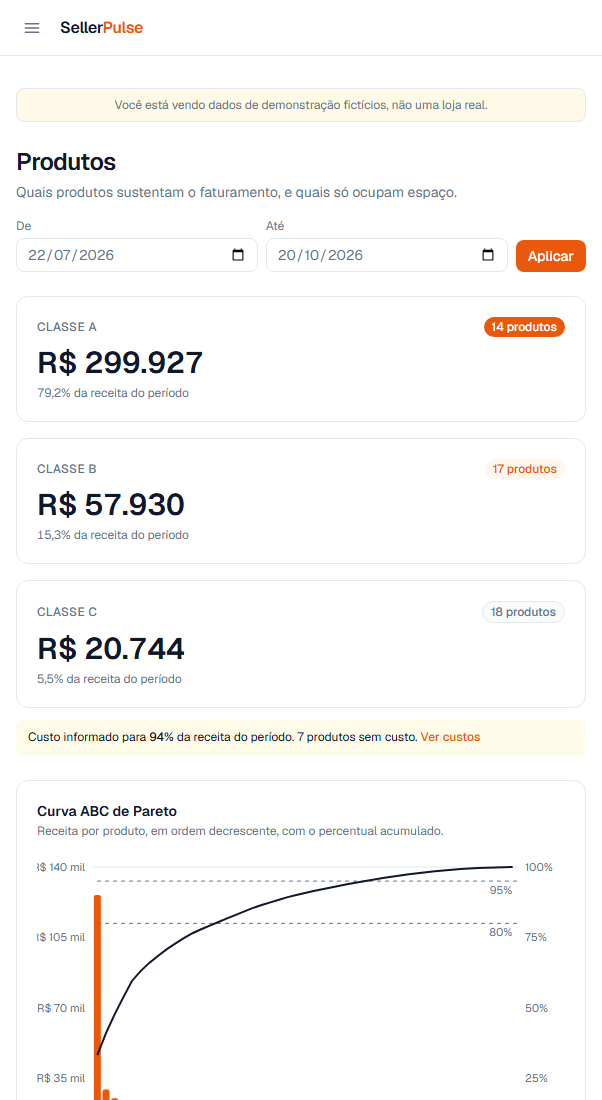
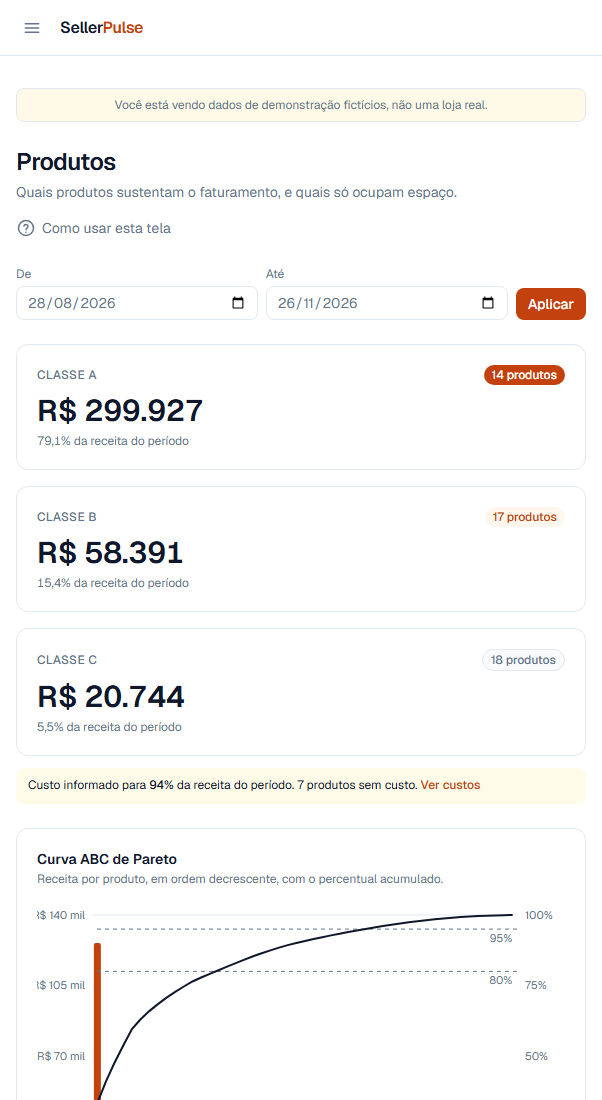
feat(vitrine): Resumo entre as telas e fotos novas da demonstração
As fotos eram de 20/10 e não mostravam o Resumo, que hoje é a primeira
tela de quem entra. O script de captura passa a responder "já vi" aos
tutoriais, que abriam sozinhos no perfil limpo e saíam por cima da tela.

diff --git a/frontend/components/landing/showcase.tsx b/frontend/components/landing/showcase.tsx
@@ -5,8 +5,8 @@ import { vitrineComVendasAbertas } from "@/lib/vendas";
 import { BrowserFrame } from "./browser-frame";
 
 /**
- * Seção 3 — as três análises, com prints reais de `/demo/financeiro`, `/demo/produtos`
- * e `/demo/clientes`, capturados da própria demonstração por
+ * Seção 3 — as quatro telas, com prints reais de `/demo` (o Resumo, a porta de
+ * entrada), `/demo/financeiro`, `/demo/produtos` e `/demo/clientes`, capturados da própria demonstração por
  * `scripts/captura-prints.mjs`. Nenhum número aqui é fabricado.
  *
  * Mas eles NÃO são os mesmos números que o visitante vê ao clicar em "ver
@@ -25,6 +25,13 @@ import { BrowserFrame } from "./browser-frame";
  */
 
 const TELAS = [
+  {
+    titulo: "Resumo",
+    pergunta: "Estou ganhando dinheiro? E o que eu faço agora?",
+    desktop: { src: "/landing/demo-resumo.png", width: 1440, height: 900 },
+    mobile: { src: "/landing/demo-resumo-mobile.png", width: 602, height: 1100 },
+    href: "/demo",
+  },
   {
     titulo: "Financeiro",
     pergunta: "Quanto sobrou de verdade este mês, depois da comissão do Mercado Livre?",
@@ -54,7 +61,7 @@ export function Showcase() {
       <div className="mx-auto max-w-6xl px-4 sm:px-6">
         <div className="max-w-2xl">
           <h2 className="text-3xl font-semibold tracking-tight text-ink sm:text-4xl">
-            Três telas, três perguntas respondidas.
+            Quatro telas, quatro perguntas respondidas.
           </h2>
           <p className="mt-4 text-lg text-muted">
             Nada aqui é maquete — são as telas reais, com dados de demonstração
